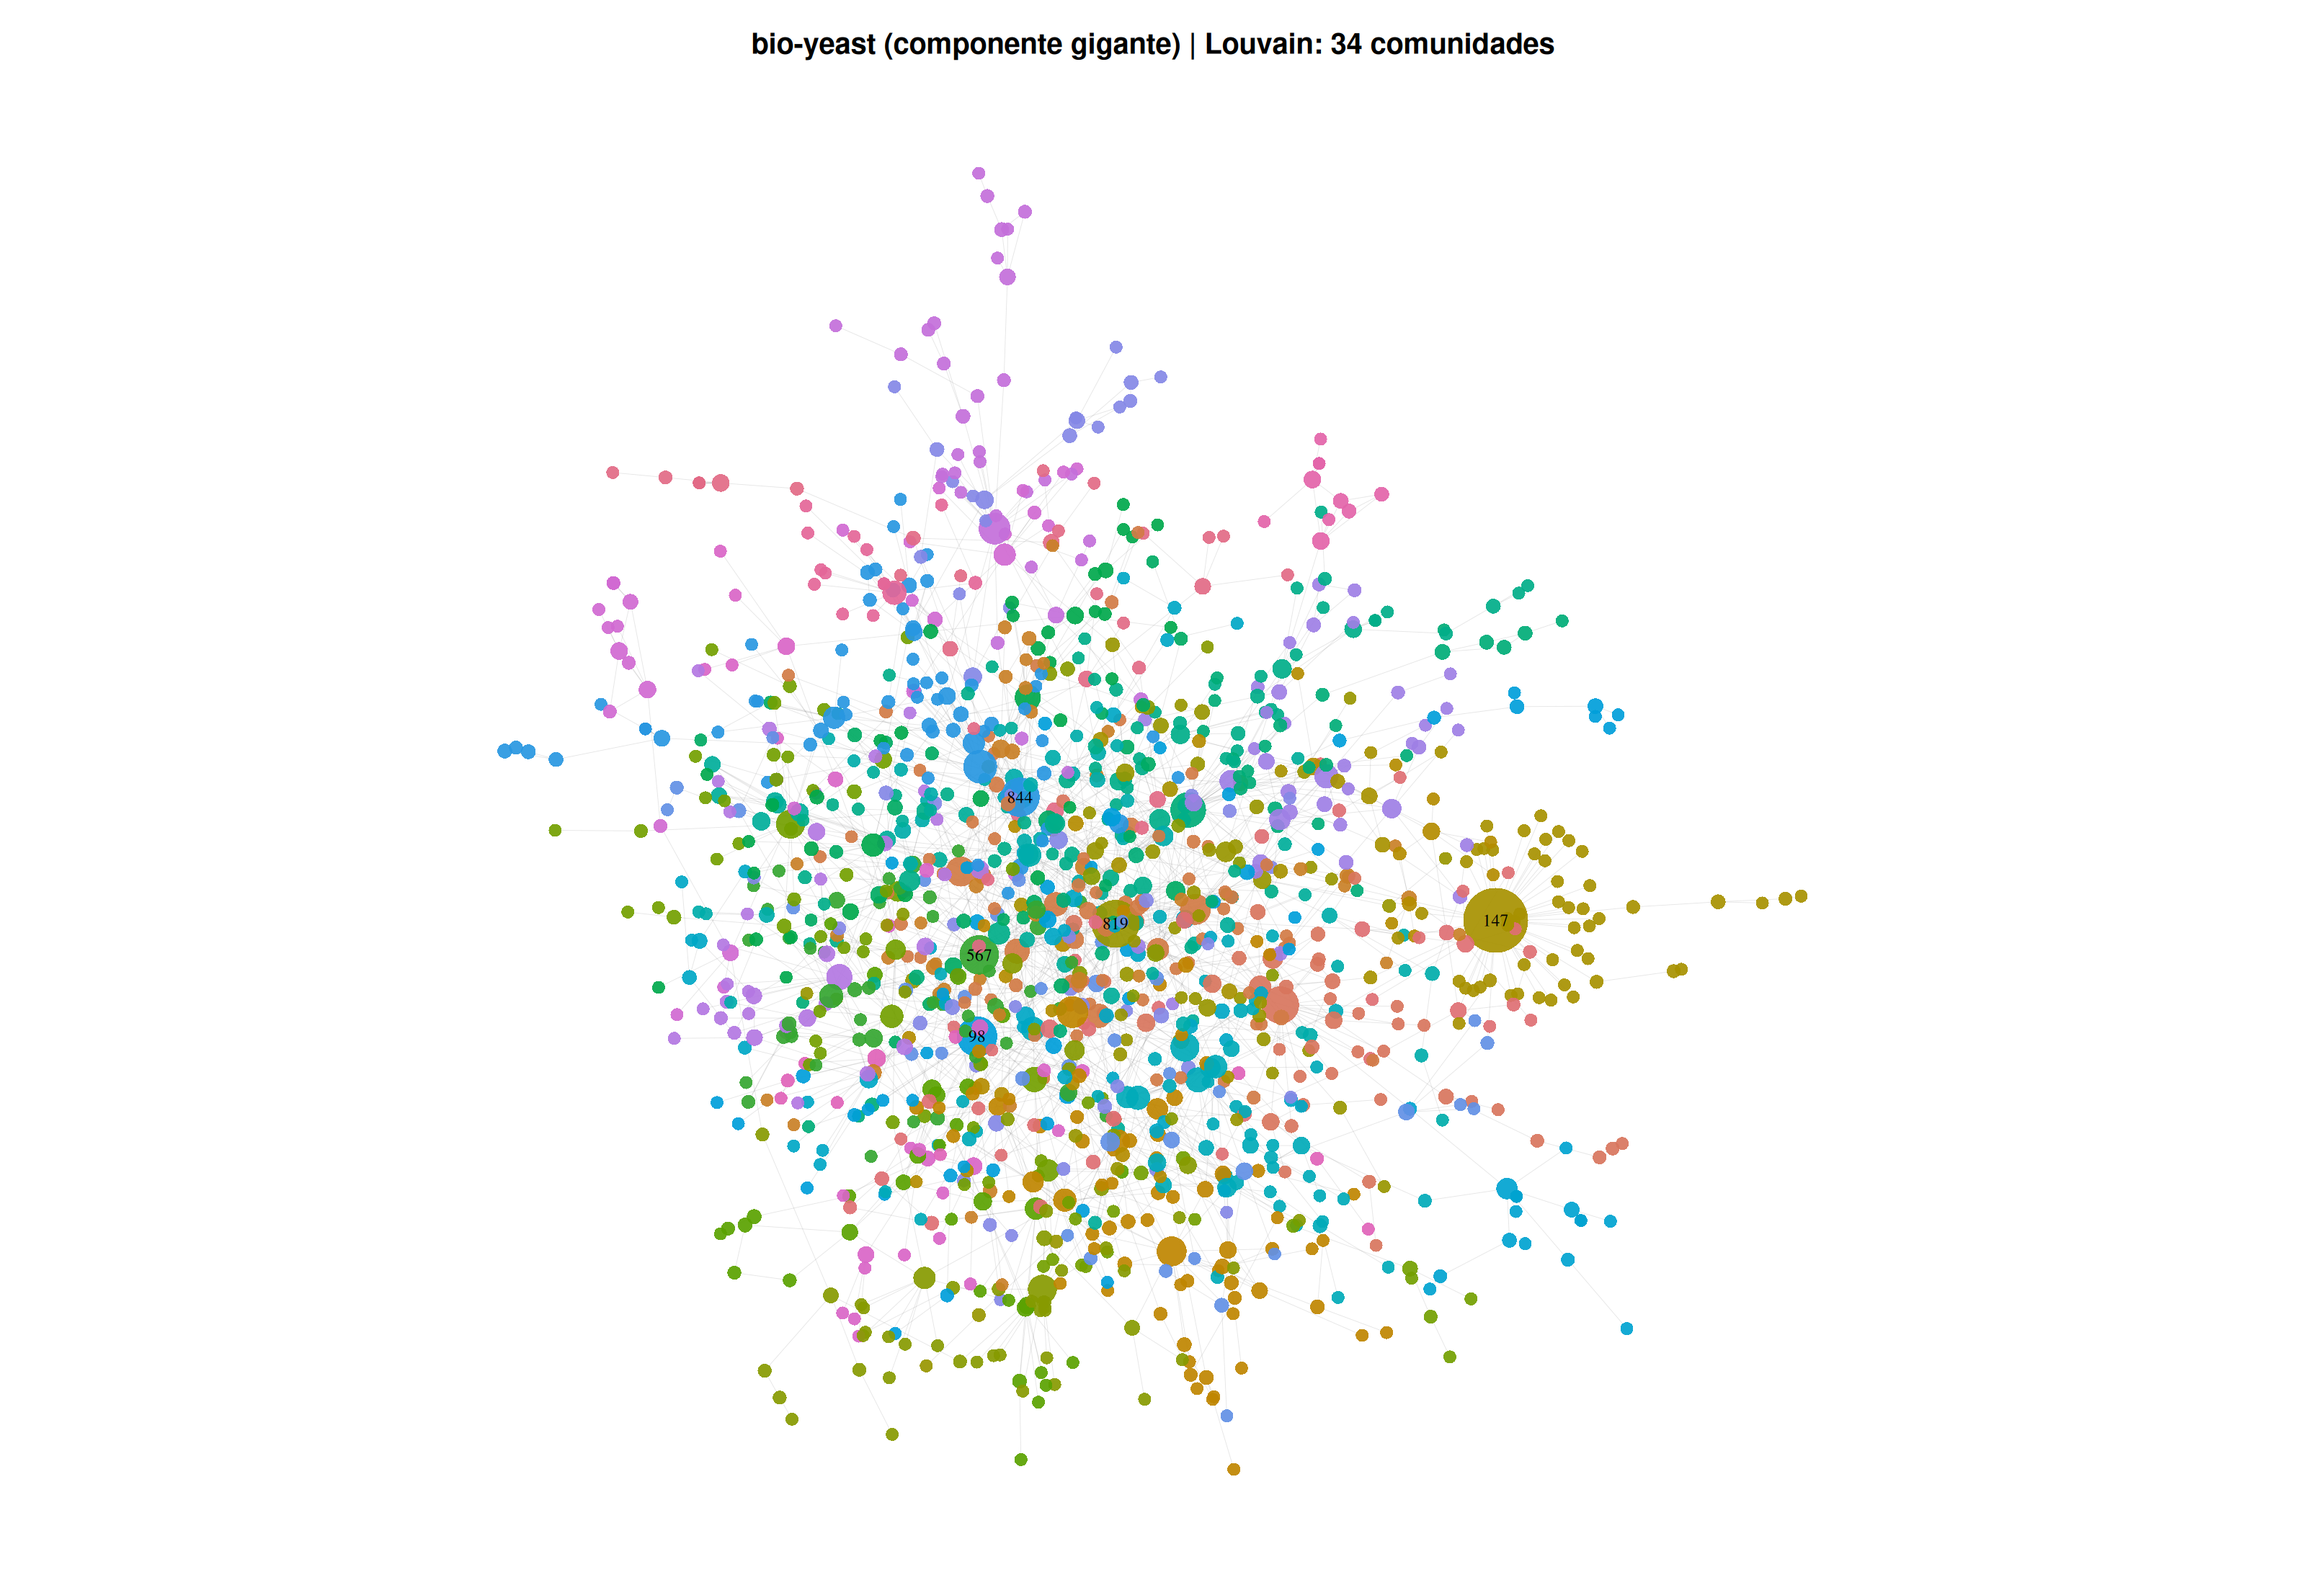
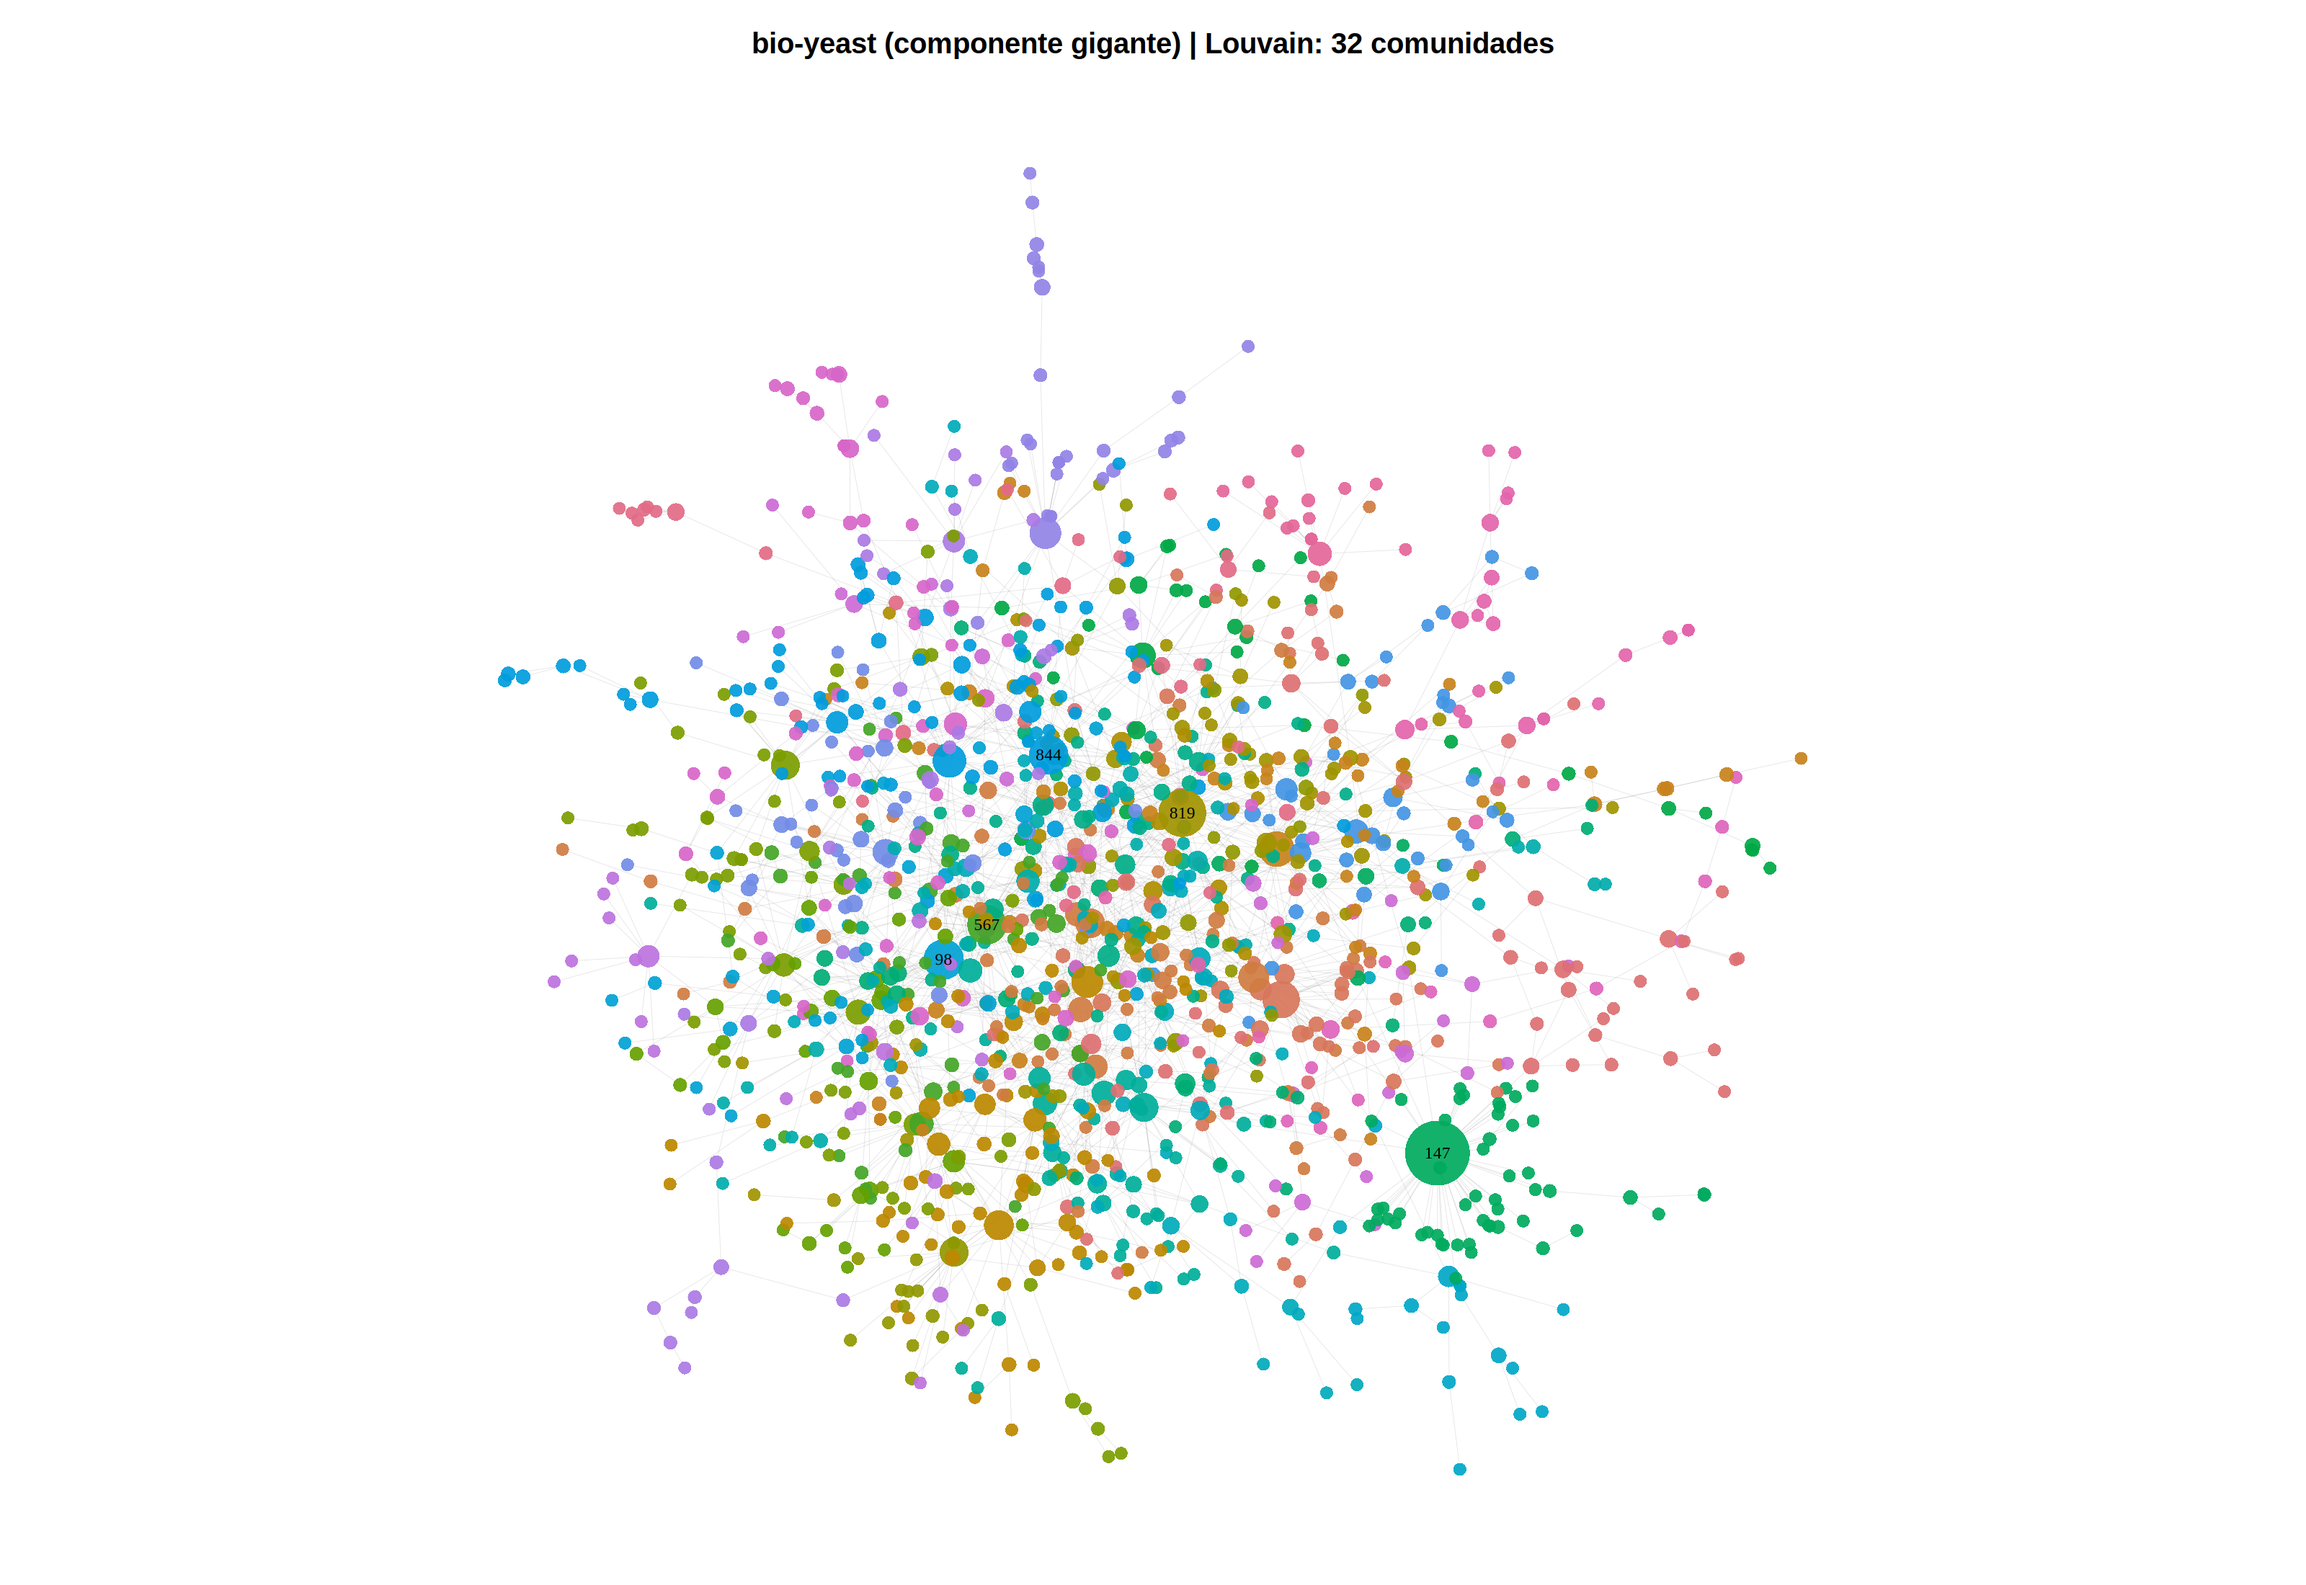
Update task-2 report and figures
Agent-Logs-Url: https://github.com/voidalzk/computacional-biology-tasks/sessions/38a627d3-5bd6-4c21-9db0-6044f7c9b387

diff --git a/task-2/relatorio-tarefa-ead2.tex b/task-2/relatorio-tarefa-ead2.tex
@@ -108,6 +108,7 @@ ecount(grafo)           # Numero de arestas (tamanho)
 edge_density(grafo)     # Densidade
 diameter(grafo, directed = FALSE, unconnected = TRUE)  # Diametro
 transitivity(grafo, type = "globalundirected")         # Transitividade
+mean(degree(grafo))     # Grau medio
 \end{lstlisting}
 
 \begin{table}[H]
@@ -120,14 +121,15 @@ transitivity(grafo, type = "globalundirected")         # Transitividade
 Direcionamento     & Não direcionada \\
 Ordem (vértices)   & 1458 \\
 Tamanho (arestas)  & 1948 \\
-Densidade          & 0,001834 \\
+Densidade          & 0,001834011 \\
 Diâmetro           & 19 \\
-Transitividade     & 0,05178 \\
+Transitividade     & 0,051776 \\
+Grau médio         & 2,672 \\
 \bottomrule
 \end{tabular}
 \end{table}
 
-A densidade de 0,18\% indica uma rede muito esparsa: das conexões possíveis entre os 1458 nós, menos de 1 em cada 500 existe de fato. O diâmetro 19 significa que, no pior caso, são necessários 19 "saltos" para ir de uma proteína a outra. A transitividade (também chamada de coeficiente de agrupamento global) vale 0,052 — um valor bem maior que a densidade, o que indica que vizinhos de um nó tendem a também se conectar entre si mais do que seria esperado em uma rede aleatória. Isso sugere que a rede tem uma \textbf{estrutura modular}, com grupos de proteínas mais fortemente conectados internamente.
+A densidade de 0,18\% indica uma rede muito esparsa: das conexões possíveis entre os 1458 nós, menos de 1 em cada 500 existe de fato. O diâmetro 19 significa que, no pior caso, são necessários 19 "saltos" para ir de uma proteína a outra. A transitividade (também chamada de coeficiente de agrupamento global) vale 0,052 — um valor bem maior que a densidade, o que indica que vizinhos de um nó tendem a também se conectar entre si mais do que seria esperado em uma rede aleatória. O grau médio de 2,67 mostra que a maioria das proteínas possui poucas conexões diretas, com poucos nós muito conectados. Além disso, remover nós isolados não alterou a ordem da rede, indicando que praticamente todos os vértices participam de alguma interação.
 
 Quanto à classificação como rede de ``mundo pequeno'' (\textit{small world}): redes desse tipo costumam ter diâmetro pequeno e transitividade alta ao mesmo tempo. Aqui, o diâmetro de 19 é relativamente alto para 1458 nós, então a rede não se encaixa bem nessa categoria. A classificação mais adequada é de uma \textbf{rede biológica esparsa e modular}.
 
@@ -157,7 +159,7 @@ Nó 147 (56), Nó 819 (38), Nó 98 (30), Nó 567 (29), Nó 844 (29)
 \textbf{Top 5 por Intermediação} (Betweenness — quantos caminhos curtos passam pelo nó):
 
 \begin{center}
-Nó 819 (225922), Nó 844 (148269), Nó 98 (122960), Nó 147 (104508), Nó 595 (83235)
+Nó 819 (225922,23), Nó 844 (148268,95), Nó 98 (122960,35), Nó 147 (104507,89), Nó 595 (83235,45)
 \end{center}
 
 \textbf{Discussão do papel estrutural dos hubs:}
@@ -221,12 +223,12 @@ plot(grafo, layout = layout_fr,
 \caption{Componente gigante da rede, com os 5 hubs de maior grau identificados por rótulo. Facilita a visualização da posição central desses nós.}
 \end{figure}
 
-\subsection{Comparativo dos hubs por grau e intermediação}
+\subsection{Comparativo dos hubs por grau, intermediação e distribuição}
 
 \begin{figure}[H]
 \centering
 \includegraphics[width=0.98\textwidth]{top_hubs_grau_intermediacao_200ppi.png}
-\caption{Top 10 nós por Grau (esquerda) e por Intermediação/Betweenness (direita). A comparação visual deixa clara a diferença entre os dois rankings.}
+\caption{Top 10 nós por Grau (esquerda), por Intermediação/Betweenness (centro) e distribuição de graus (direita). A comparação visual deixa clara a diferença entre os dois rankings e a concentração de nós com baixo grau.}
 \end{figure}
 
 % ============================================================================
@@ -236,7 +238,7 @@ plot(grafo, layout = layout_fr,
 
 \textbf{Tipo de rede e classificação estrutural}
 
-A rede bio-yeast é uma rede biológica de interações proteína-proteína (PPI) esparsa e modular. A densidade muito baixa (0,18\%) mostra que cada proteína interage com apenas uma pequena fração das demais, o que é típico de redes biológicas. O coeficiente de transitividade (0,052), bem mais alto que a densidade, indica que proteínas que interagem com uma mesma terceira proteína também tendem a interagir entre si com mais frequência do que seria esperado ao acaso. O diâmetro de 19 mostra que a rede não é compacta o suficiente para ser classificada como \textit{small world}: apesar dos agrupamentos locais, os caminhos entre partes distantes da rede são relativamente longos.
+A rede bio-yeast é uma rede biológica de interações proteína-proteína (PPI) esparsa e modular. A densidade muito baixa (0,18\%) mostra que cada proteína interage com apenas uma pequena fração das demais, o que é típico de redes biológicas. O coeficiente de transitividade (0,052), bem mais alto que a densidade, indica que proteínas que interagem com uma mesma terceira proteína também tendem a interagir entre si com mais frequência do que seria esperado ao acaso. O diâmetro de 19 mostra que a rede não é compacta o suficiente para ser classificada como \textit{small world}: apesar dos agrupamentos locais, os caminhos entre partes distantes da rede são relativamente longos. O grau médio de 2,67 e o histograma de graus reforçam a presença de poucos hubs muito conectados frente a muitos nós de baixo grau.
 
 \textbf{Análise dos hubs}
 
